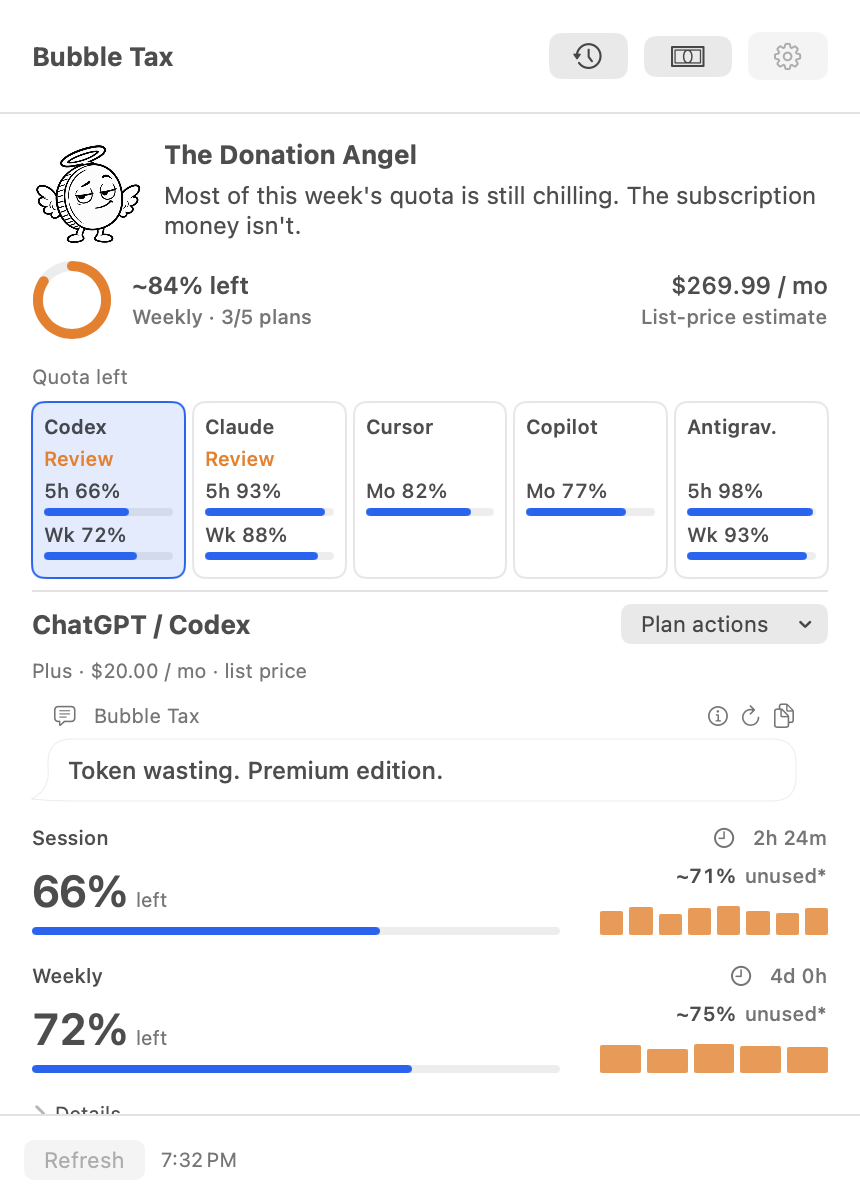
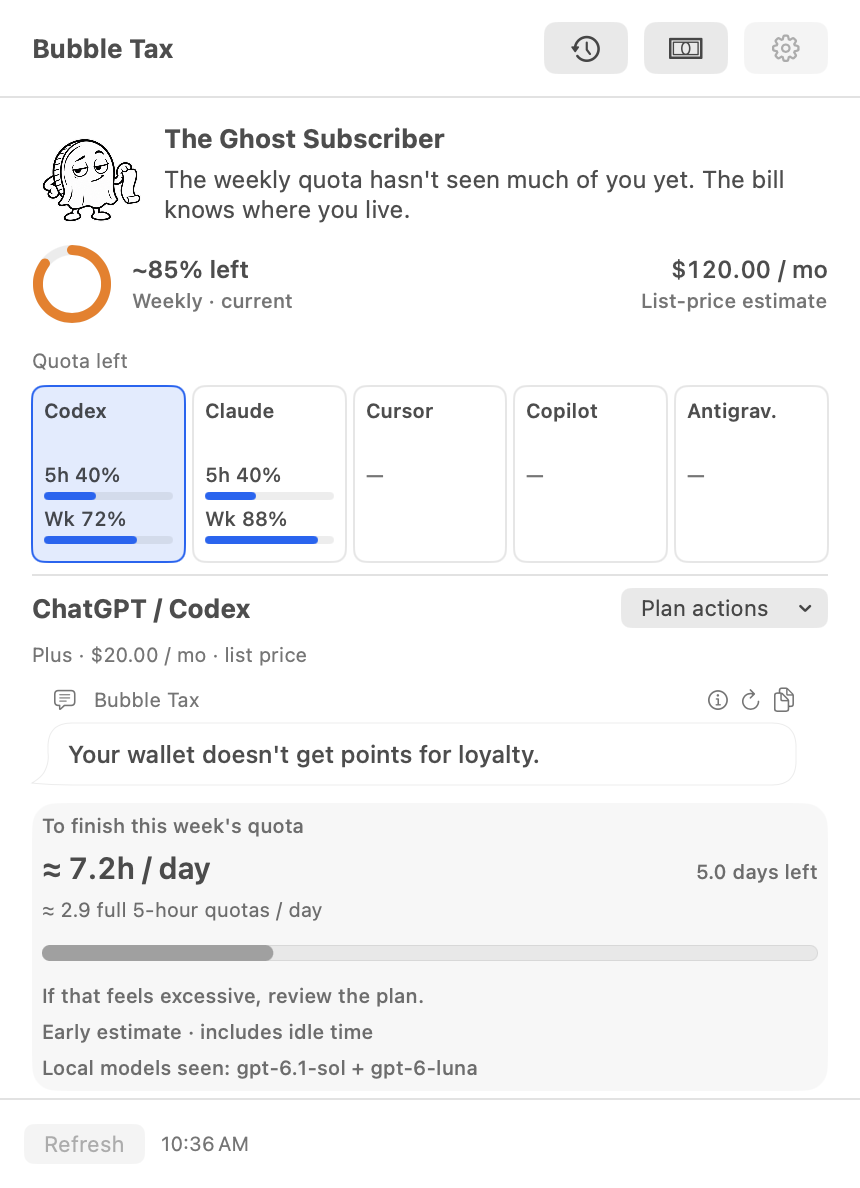
Show weekly usage patterns and model windows on the landing page

diff --git a/site/index.html b/site/index.html
@@ -34,7 +34,7 @@
   </script>
   <link rel="stylesheet" href="styles.css?v=f3dad65fe42a">
   <script src="config.js?v=0102d97d03a5" defer></script>
-  <script src="app.js?v=d9e8697df3fd" defer></script>
+  <script src="app.js?v=5114969814cf" defer></script>
 </head>
 <body>
   <a class="skip" href="#main">Skip to content</a>
@@ -67,7 +67,7 @@
           </div>
           <div class="mac-wallpaper" aria-hidden="true"></div>
           <div id="mac-popover" class="mac-popover">
-            <button class="image-button" data-image="assets/overview.png" data-caption="Overview — actual macOS app, sample data." aria-label="Enlarge the actual macOS overview screenshot"><img class="app-capture" data-light="assets/overview.png" data-dark="assets/overview-dark.png" src="assets/overview.png" alt="Bubble Tax on macOS showing current weekly quota left and multiple AI subscriptions." width="860" height="1204" fetchpriority="high"></button>
+            <button class="image-button" data-image="assets/overview.png" data-caption="Overview — actual macOS app, sample data." aria-label="Enlarge the actual macOS overview screenshot"><img class="app-capture" data-light="assets/overview.png" data-dark="assets/overview-dark.png" src="assets/overview.png" alt="Bubble Tax on macOS showing current weekly quota left and multiple AI subscriptions." width="860" height="1188" fetchpriority="high"></button>
           </div>
         </div>
         <figcaption>Actual app capture. Sample data. <span>Paid plans flip every 8 seconds. Click to open or close.</span></figcaption>
@@ -77,25 +77,26 @@
     <section id="inside" class="inside wrap" aria-labelledby="inside-title">
       <h2 id="inside-title">A look inside</h2>
       <div class="tour-tabs" role="group" aria-label="Choose an app screenshot">
-        <button class="tour-tab active" data-screen="savings" aria-pressed="true">Savings</button>
-        <button class="tour-tab" data-screen="downgrade" aria-pressed="false">Smaller plans</button>
-        <button class="tour-tab" data-screen="overview" aria-pressed="false">Overview</button>
+        <button class="tour-tab active" data-screen="weekly-pattern" aria-pressed="true">Weekly pattern</button>
+        <button class="tour-tab" data-screen="model-windows" aria-pressed="false">Codex windows</button>
+        <button class="tour-tab" data-screen="claude-windows" aria-pressed="false">Claude windows</button>
         <button class="tour-tab" data-screen="unused-history" aria-pressed="false">Unused history</button>
-        <button class="tour-tab" data-screen="details" aria-pressed="false">Past resets</button>
+        <button class="tour-tab" data-screen="downgrade" aria-pressed="false">Smaller plans</button>
+        <button class="tour-tab" data-screen="savings" aria-pressed="false">Savings</button>
         <button class="tour-tab" data-screen="connections" aria-pressed="false">Connections</button>
         <button class="tour-tab" data-screen="enterprise" aria-pressed="false">Work accounts</button>
       </div>
       <div class="app-tour">
         <div class="tour-copy">
           <div class="tour-description" aria-live="polite" aria-atomic="true">
-            <h3 id="tour-title">A smaller monthly bill.</h3>
-            <p id="tour-body">Record your completed cancellations and downgrades. Before-and-after prices show the monthly difference.</p>
-            <p id="tour-note" class="tour-note">Projected list-price reduction, not cash already recovered.</p>
+            <h3 id="tour-title">Your subscription needs a second job.</h3>
+            <p id="tour-body">See the daily pace needed to finish your remaining weekly quota. If keeping up sounds like work, the smaller plan might be enough.</p>
+            <p id="tour-note" class="tour-note">Claude and Codex · an estimate from observed use, including idle time. Too little data stays unknown.</p>
           </div>
         </div>
         <figure class="tour-shot">
-          <button id="tour-image-button" class="image-button" data-image="assets/savings.png" data-caption="Savings — actual macOS app, sample data." aria-label="Enlarge the selected app screenshot"><img id="tour-image" class="app-capture" data-light="assets/savings.png" data-dark="assets/savings-dark.png" src="assets/savings.png" alt="Bubble Tax savings history on macOS, showing a lower monthly bill after recorded plan changes with sample data." width="910" height="1260"></button>
-          <figcaption><span id="shot-label">Savings</span><span>Sample data · click for original</span></figcaption>
+          <button id="tour-image-button" class="image-button" data-image="assets/weekly-pattern.png" data-caption="Weekly pattern — actual macOS app, sample data." aria-label="Enlarge the selected app screenshot"><img id="tour-image" class="app-capture" data-light="assets/weekly-pattern.png" data-dark="assets/weekly-pattern-dark.png" src="assets/weekly-pattern.png" alt="Bubble Tax on macOS estimating 7.2 hours per day to finish the weekly Codex quota, with sample data." width="860" height="1188"></button>
+          <figcaption><span id="shot-label">Weekly pattern</span><span>Sample data · click for original</span></figcaption>
         </figure>
       </div>
       <details class="data-note"><summary>About the data</summary><p>The app reads available usage through your signed-in provider sessions, with local Claude / Codex records as fallback. Claude and Codex window history adds local model context. The main screen estimates the daily pattern needed to finish your weekly quota. Usage history and completed-change records stay on your Mac. Missing readings stay unknown; Codex quota doesn't represent every ChatGPT feature.</p><p>Prices are published US monthly list prices, not your invoice. Savings are projected rate reductions. You cancel or downgrade with the provider, then record the change here. Work budgets stay out of personal savings.</p></details>

diff --git a/site/app.js b/site/app.js
@@ -1,5 +1,8 @@
 (() => {
   const screens = {
+    "weekly-pattern": {title: "Your subscription needs a second job.", body: "See the daily pace needed to finish your remaining weekly quota. If keeping up sounds like work, the smaller plan might be enough.", note: "Claude and Codex · an estimate from observed use, including idle time. Too little data stays unknown.", label: "Weekly pattern"},
+    "model-windows": {title: "Five hours. One weekly budget.", body: "Follow how each Claude or Codex window draws down the weekly meter. See the local model mix alongside the recorded changes.", note: "Token counts add context; they don't reveal a provider's exact quota formula.", label: "Codex windows"},
+    "claude-windows": {title: "Same window. Different models.", body: "Compare Claude windows with their local model mix. Check whether similar short-window usage made a different dent in the weekly limit.", note: "Observed meter changes, with input, output and cache details available in the app.", label: "Claude windows"},
     "unused-history": {title: "The quota you left behind.", body: "Browse recorded resets across your subscriptions. See unused quota over time, with weekly and session limits kept separate.", note: "Only observed near-reset readings count. Missing periods aren't guessed.", label: "Unused history"},
     overview: {title: "The plans you're keeping.", body: "See current quota left across your AI services. Plans with repeated unused headroom move to the front for review.", note: "Current remaining quota isn't expired waste.", label: "Overview"},
     details: {title: "What went unused.", body: "See the quota left near past resets. A few quiet hours aren't enough to label a whole subscription a waste.", note: "Weekly and session limits stay separate.", label: "Past resets"},
